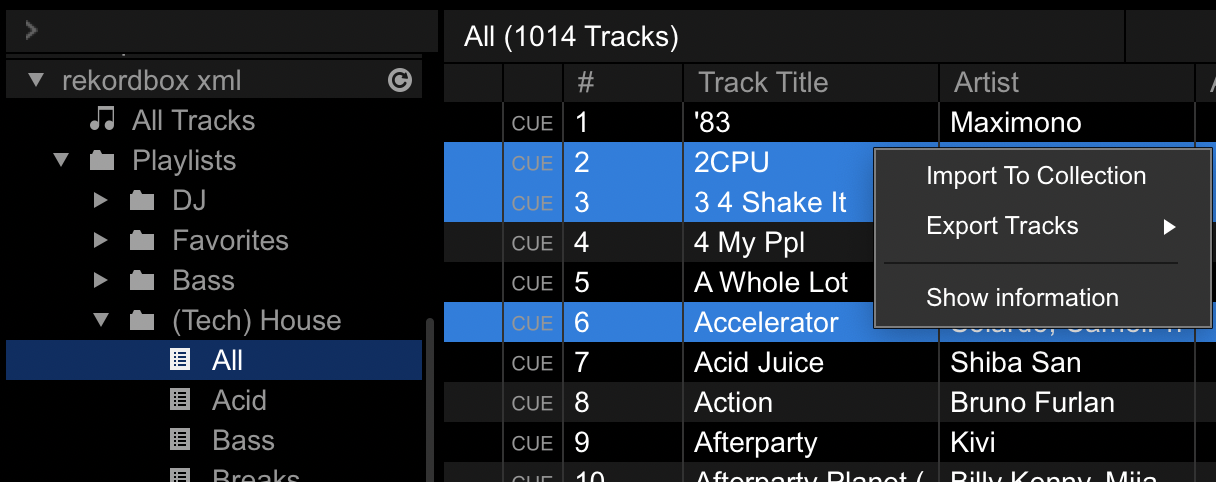
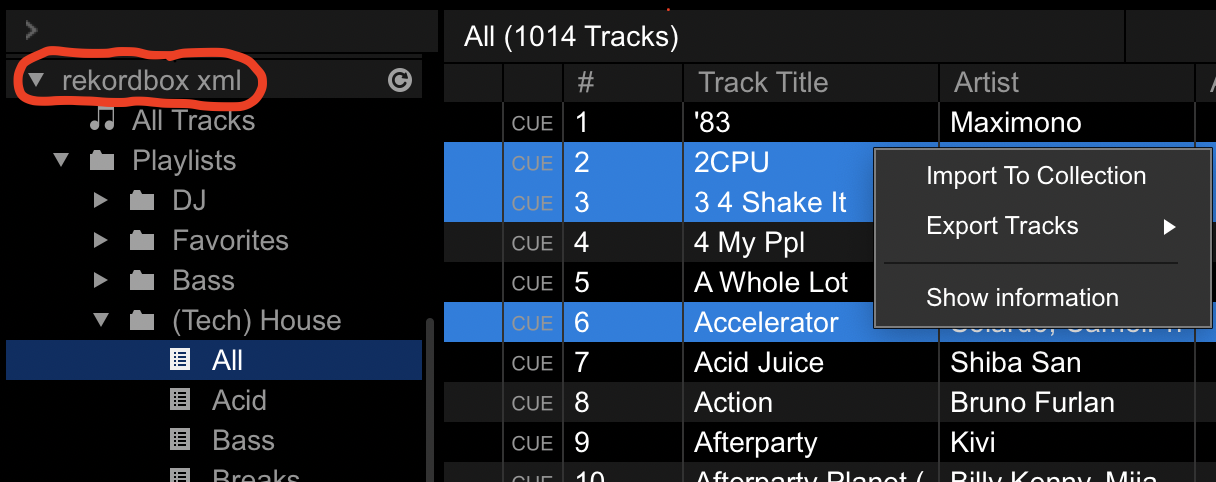
README update

Changed region(s): [[0.0, 0.0934, 0.2188, 0.249]]

diff --git a/README.md b/README.md
@@ -1,5 +1,4 @@
 # DJ Tools
-
 ## Overview of Tools:
 * `clone_library.py`: download / upload MP3s, download `rekordbox.xml`
 * `download.sh`: download track(s) by URL via youtube-dl (Soundcloud)
@@ -7,10 +6,8 @@
 * `randomize_tracks.py`: randomize track number (and other select ID3 tag fields) to 'shuffle' library
 * `key_analysis.py`: analyze / visualize melodic key information in library
 * `spotify_analysis.py`: compare Spotify playlists with each other and local folders to identify overlapping or missing tracks 
-
-## Cloning Library
 ----------
-
+## Cloning Library
 ### Description:
 This script can download from / upload to an AWS S3 instance which stores all the MP3s of the track collection. In addition, it can download a `rekordbox.xml` file which can be used to selectively import Rekordbox data (beatgrid and cue information) for tracks and/or playlists.
 ### Prerequisites:
@@ -22,53 +19,67 @@ This script can download from / upload to an AWS S3 instance which stores all th
     - Mac installation: `brew install awscli`
     - Linux installation: `sudo apt-get install awscli`
     - Windows installation [[official instructions](https://docs.aws.amazon.com/cli/latest/userguide/install-cliv2-windows.html)]: [download installer](https://awscli.amazonaws.com/AWSCLIV2.msi) OR run `msiexec.exe /i https://awscli.amazonaws.com/AWSCLIV2.msi`
-
--------------
 ### Configuring `awscli`:
 In your terminal run the following command to configure `awscli` for access to the AWS S3 instance:
 
-`aws configure --profile DJ`
+&nbsp;&nbsp;&nbsp;&nbsp;&nbsp;&nbsp;&nbsp;&nbsp;&nbsp;&nbsp; `aws configure --profile DJ`
 
 Enter the provided `access_key` and `secret_key`. Default values for the rest of the configuration is fine.
 
--------------
-
 ### Usage:
 ```
-usage: clone_library.py [-h] [--path PATH]
-                        [--download {music,xml} [{music,xml} ...]] [--upload]
+usage: clone_library.py [-h] --path PATH
+                        [--download {music,xml} [{music,xml} ...]]
+                        [--upload {music,xml} [{music,xml} ...]] [--delete]
+                        [--include INCLUDE [INCLUDE ...]]
+                        [--exclude EXCLUDE [EXCLUDE ...]]
+                        [--use_date_modified]
 
 optional arguments:
   -h, --help            show this help message and exit
   --path PATH, -p PATH  path to root of DJ USB
   --download {music,xml} [{music,xml} ...], -d {music,xml} [{music,xml} ...]
                         download MP3s and/or rekordbox.xml
-  --upload, -u          upload MP3s
+  --upload {music,xml} [{music,xml} ...], -u {music,xml} [{music,xml} ...]
+                        upload MP3s and/or rekordbox.xml
+  --delete              adds --delete flag to "aws s3 sync" command (only for
+                        me)
+  --include INCLUDE [INCLUDE ...]
+                        --include flag for each top-level folder in "DJ Music"
+  --exclude EXCLUDE [EXCLUDE ...]
+                        --exclude flag for each top-level folder in "DJ Music"
+  --use_date_modified   drop --size-only flag for `aws s3 sync` command
 ```
 
-### Examples (`NOTE:` Windows users should use a `--path` like `D:`):
+### Usage Flow Chart:
+![alt text](images/usage_flow_chart.png "Usage Flow Chart")
 
-Download all new music and most up-to-date `rekordbox.xml`:
+### Examples (Windows users should use a `--path` like `D:`):
+🟢 Download mp3 files only:
 
-&nbsp;&nbsp;&nbsp;&nbsp;&nbsp;&nbsp;`python3 clone_library.py --path /Volumes/DJ/ --download music xml`
+&nbsp;&nbsp;&nbsp;&nbsp;&nbsp;&nbsp;&nbsp;&nbsp;&nbsp;&nbsp; `python clone_library.py --path /path/to/USB --download music`
 
+🟢 Only download contents of `Techno` folder:
 
-Download all new music but only in the `Bass` and `Techno` folders:
+&nbsp;&nbsp;&nbsp;&nbsp;&nbsp;&nbsp;&nbsp;&nbsp;&nbsp;&nbsp; `python clone_library.py --path /path/to/USB --download music --include Techno`
 
-&nbsp;&nbsp;&nbsp;&nbsp;&nbsp;&nbsp;`python3 clone_library.py --path /Volumes/DJ/ --download music --include Bass Techno`
+🟢 Ignore contents of `Bass` and `Other` folders :
 
------
+&nbsp;&nbsp;&nbsp;&nbsp;&nbsp;&nbsp;&nbsp;&nbsp;&nbsp;&nbsp; `python clone_library.py --path /path/to/USB --download music --exclude Bass Other`
 
-Upload all new music (not tested with Windows):
+🔵 Redownload mp3 files with updated ID3 tags:
 
-&nbsp;&nbsp;&nbsp;&nbsp;&nbsp;&nbsp;`python3 clone_library.py --path /Volumes/DJ/ --upload`
+&nbsp;&nbsp;&nbsp;&nbsp;&nbsp;&nbsp;&nbsp;&nbsp;&nbsp;&nbsp; `python clone_library.py --path /path/to/USB --download music --use_date_modified`
 
-Upload all new music except for tracks in the `Other` folder:
+🔴 Download mp3 files and my `rekordbox.xml` which can be imported from:
 
-&nbsp;&nbsp;&nbsp;&nbsp;&nbsp;&nbsp;`python3 clone_library.py --path /Volumes/DJ/ --upload music --exclude Other`
+&nbsp;&nbsp;&nbsp;&nbsp;&nbsp;&nbsp;&nbsp;&nbsp;&nbsp;&nbsp; `python clone_library.py --path /path/to/USB --download music xml`
+
+⚪ Upload all new music (not tested with Windows):
+
+&nbsp;&nbsp;&nbsp;&nbsp;&nbsp;&nbsp;&nbsp;&nbsp;&nbsp;&nbsp; `python3 clone_library.py --path /path/to/USB --upload music`
 
 -------------
-
 ### Importing Music From `rekordbox.xml`:
 Ensure you have the proper `rekordbox.xml` file selected under Preferences > Advanced > Database > rekordbox xml:
 ![alt text](images/Pioneer_Preferences_Database.png "Select XML database")
@@ -81,24 +92,39 @@ Then select the track(s) or playlist(s) and select "Import To Collection" (this 
 
 For convenience, there's a playlist called `New Tracks` which can be referenced to find the most recent additions to the collection.
 
-Don't forget to include the `Date Added` and `Color` columns by right-clicking the column headers area; sort by `Date Added` and import the most recent tracks you haven't imported yourself yet. When I process a track (adjust beatgrid & tempo and set cue points), I set the `Color` to `green (Closing)`.
+Don't forget to include the `Date Added` and `Color` columns by right-clicking the column headers area; sort by `Date Added` and import the most recent tracks you haven't imported yourself yet.
 
-As I mix (or if it's immediately apparent while importing) I may set `Color` to `red (Headline)` if it's a track with a bit too much energy to play with more than one other `red` track in a row.
+When I process a track, I set the `Color` to `green (Closing)` as a default. As I mix (or if it's immediately apparent while importing) I may set `Color` to `red (Headline)` or `blue (Opening)` if a track has too much or too little energy, respectively, to sustain a groove. Additionally I may set `Color` to `yellow (WARNING)` if the track was not able to be processed or is otherwise deemds unmixable or at least a risky mix.
 
-I may also set `Color` to `blue (Opening)` if a track has too little energy to sustain a groove.
+**NOTE:** The usage of `red` and `blue` in this color scheme is largely neglected; basically you should use color as an indicator of whether or not a track has been processed.
+
+This is my column header arrangement. The ID3 and rekordbox tag filters are circled in red; try them out for quick playlist building.
+![alt text](images/Pioneer_Columns.png "Columns")
+
+**NOTE ABOUT BACKING UP YOUR DATA:**
+
+There may be mp3 files available for tracks that I haven't processed yet; this means importing from the `rekordbox.xml` is will effectively be the same as importing from the `Explorer`. You may either import and process the tracks yourself (set BPM, beat grid, hot cues) or wait until I push a more up-to-date `rekordbox.xml` and import the tracks at that time.
+
+If you want to retain your custom bpm, beatgrid, and hot cue data, you **must not** reimport that track, or any playlist containing that track, from my `rekordbox.xml` once you've made the changes on your local file system.
+
+If you want to retain your custom ID3 tag field modifications (artist(s), track name, genre(s), comments), you **must not** run `clone_library.py` with the `--use_date_modified` flag. Alternatively, you may run with the `--use_date_modified` flag and additionally use either the `--include` or the `--exclude` option to prevent redownloading contents of folders containing the tracks you want to preserve.
+
+You may want to consider keeping a regular backup of your rekordbox library data in a file called `my_rekordbox.xml` so you can restore data for tracks and playlists in the event they are overwritten or otherwise lost.
 
 -------------
+### Roadmap:
 
-**NOTE:** This color scheme is largely neglected; basically you should use color as an indicator of whether or not a track has been processed.
-
--------------
-
-**NOTE:** There may be an mp3 available for a track that I haven't processed; meaning you can import the track (assign BPM, beat grid) and begin storing custom cue points in addition to making potentially necessary beatgrid adjustement(s). You may want to consider re-importing these tracks again after I've processed them so you can persist consistency with my library. Otherwise, if you want to retain your own custom adaptations to the tracks, as far as Rekordbox is concerned, then ensure you **do not** re-import my `rekordbox.xml` representation of a track ontop of your own...always keep an up-to-date `my_rekordbox.xml` that you can restore / import from in case you overwrite tracks with my Rekordbox info
-
--------------
-
-![alt text](images/Pioneer_New-Tracks_Playlist_2.png "New Tracks Playlist")
-
--------------
-### Future Work:
-* convert `rekordbox.xml` into Serato compatible beatgrid and cue data -- for the time being, you might have success with [this tool](https://github.com/digital-dj-tools/dj-data-converter); I've used this in the past to convert from Traktor to Rekordbox, though I did have to use search & replace to fix broken file paths
+- Update ID3 tag field for `Genre`
+    * [x] Bass > Favorites
+    * [ ] House > Favorites
+    * [ ] Bass > All 
+    * [ ] House > All 
+    * [x] Techno > All 
+    * [x] `New Tracks` after `2021-04-28`
+    * [ ] `New Tracks` after `2020`
+    * [ ] `Collection`
+- Update hot cue scheme
+    * [x] Bass > Favorites 
+    * [ ] Bass > All
+    * [x] House > All
+    * [x] Techno > All
